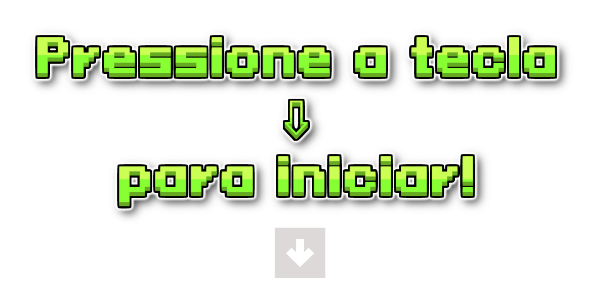
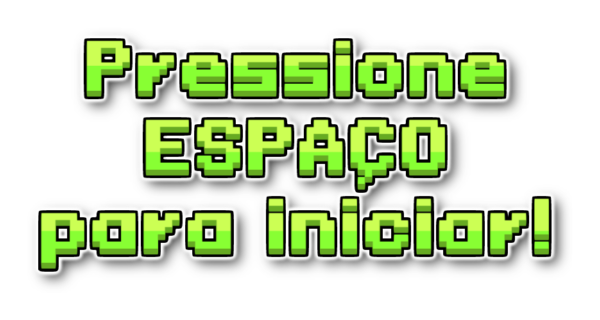
commit adicionando as variáveis de posição do boneco com animação

diff --git a/script.js b/script.js
@@ -36,6 +36,24 @@ const timberGuyLeft = {
     }
 };
 
+const timberGuyLeftAttack = {
+    spriteX: 0,
+    spriteY: 110,
+    largura: 94,
+    altura: 76,
+    x: 39,
+    y: 405,
+    desenha() {
+        ctx.drawImage(
+            sprites,
+            timberGuyLeftAttack.spriteX, timberGuyLeftAttack.spriteY,
+            timberGuyLeftAttack.largura, timberGuyLeftAttack.altura,
+            timberGuyLeftAttack.x, timberGuyLeftAttack.y,
+            timberGuyLeftAttack.largura, timberGuyLeftAttack.altura,
+        );
+    }
+};
+
 const timberGuyRight = {
     spriteX: 117,
     spriteY: 0,
@@ -54,12 +72,30 @@ const timberGuyRight = {
     }
 };
 
+const timberGuyRightAttack = {
+    spriteX: 107,
+    spriteY: 110,
+    largura: 94,
+    altura: 76,
+    x: 190,
+    y: 405,
+    desenha() {
+        ctx.drawImage(
+            sprites,
+            timberGuyRightAttack.spriteX, timberGuyRightAttack.spriteY,
+            timberGuyRightAttack.largura, timberGuyRightAttack.altura,
+            timberGuyRightAttack.x, timberGuyRightAttack.y,
+            timberGuyRightAttack.largura, timberGuyRightAttack.altura,
+        );
+    }
+};
+
 const tree = {
     spriteX: 0,
     spriteY: 254,
     largura: 73,
     altura: 53,
-    x: 125,
+    x: 123,
     y: 427,
     desenha() {
         ctx.drawImage(
@@ -77,7 +113,7 @@ const tree2 = {
     spriteY: 254,
     largura: 73,
     altura: 53,
-    x: 125,
+    x: 123,
     y: 374,
     desenha() {
         ctx.drawImage(
@@ -95,7 +131,7 @@ const tree3 = {
     spriteY: 254,
     largura: 73,
     altura: 53,
-    x: 125,
+    x: 123,
     y: 321,
     desenha() {
         ctx.drawImage(
@@ -145,12 +181,12 @@ const getReady = {
 };
 
 const letreiroCmc = {
-    spriteX: 31,
-    spriteY: 32,
-    largura: 535,
-    altura: 181,
+    spriteX: 34,
+    spriteY: 35,
+    largura: 524,
+    altura: 241,
     x: 47,
-    y: 170,
+    y: 175,
     desenha() {
         ctx.drawImage(
             letreiroInicio,
@@ -166,33 +202,87 @@ const letreiroCmc = {
 // [TELAS]
 //
 
+let indexTela;
+let telaMostrada = {};
+let timberGuy = timberGuyLeft;
+
+const mudaTela = (novaTela) => {
+    telaMostrada = novaTela;                   // [Função para mudar de tela]
+};
+
+const telas = {
+    INICIO: {
+        desenha() {
+            backgroundImage.desenha();
+            tree.desenha();
+            tree2.desenha();
+            tree3.desenha();
+            timberGuy.desenha();
+            getReady.desenha();
+            letreiroCmc.desenha();
+            indexTela = 'telaInicio';
+        }
+    },
+
+    JOGO: {
+        desenha() {
+            backgroundImage.desenha();
+            tree.desenha();
+            tree2.desenha();
+            tree3.desenha();
+            timberGuy.desenha();
+            indexTela = 'telaJogo';
+        }
+    }
+};
 
 const loop = () => {
-    backgroundImage.desenha();
-    tree.desenha();
-    tree2.desenha();
-    tree3.desenha();
-    timberGuyRight.desenha();
-    timberGuyLeft.desenha();
+    telaMostrada.desenha();
+
     requestAnimationFrame(loop);
 };
 
 window.onload = () => {
-    backgroundImage.desenha();
-    tree.desenha();
-    tree2.desenha();
-    tree3.desenha();
-    timberGuyLeft.desenha();
-    getReady.desenha();
-    letreiroCmc.desenha();
+    mudaTela(telas.INICIO);
+    loop();
 
-//
-// [Event Listeners]
-//
+    //
+    // [Event Listeners]
+    //
 
     window.addEventListener('keydown', (e) => {
-        if(e.code == 'ArrowDown') {
-            loop();
-        }
-    })
+        if (indexTela == 'telaInicio') {
+            if (e.code == 'Space') {
+                mudaTela(telas.JOGO);
+            };
+        };
+        if (indexTela == 'telaJogo') {
+            if (e.code == 'ArrowRight') {
+                if (timberGuy == timberGuyLeft) {
+                    timberGuy = timberGuyRightAttack;
+                    setTimeout(()=>{
+                        timberGuy = timberGuyRight;
+                    }, 150);
+                } else if (timberGuy == timberGuyRight) {
+                    timberGuy = timberGuyRightAttack;
+                    setTimeout(()=>{
+                        timberGuy = timberGuyRight;
+                    }, 150);
+                };
+            };
+            if (e.code == 'ArrowLeft') {
+                if (timberGuy == timberGuyRight) {
+                    timberGuy = timberGuyLeftAttack;
+                    setTimeout(()=>{
+                        timberGuy = timberGuyLeft;
+                    }, 150);
+                } else if (timberGuy == timberGuyLeft) {
+                    timberGuy = timberGuyLeftAttack;
+                    setTimeout(()=>{
+                        timberGuy = timberGuyLeft;
+                    }, 150);
+                }
+            }
+        };
+    });
 };
